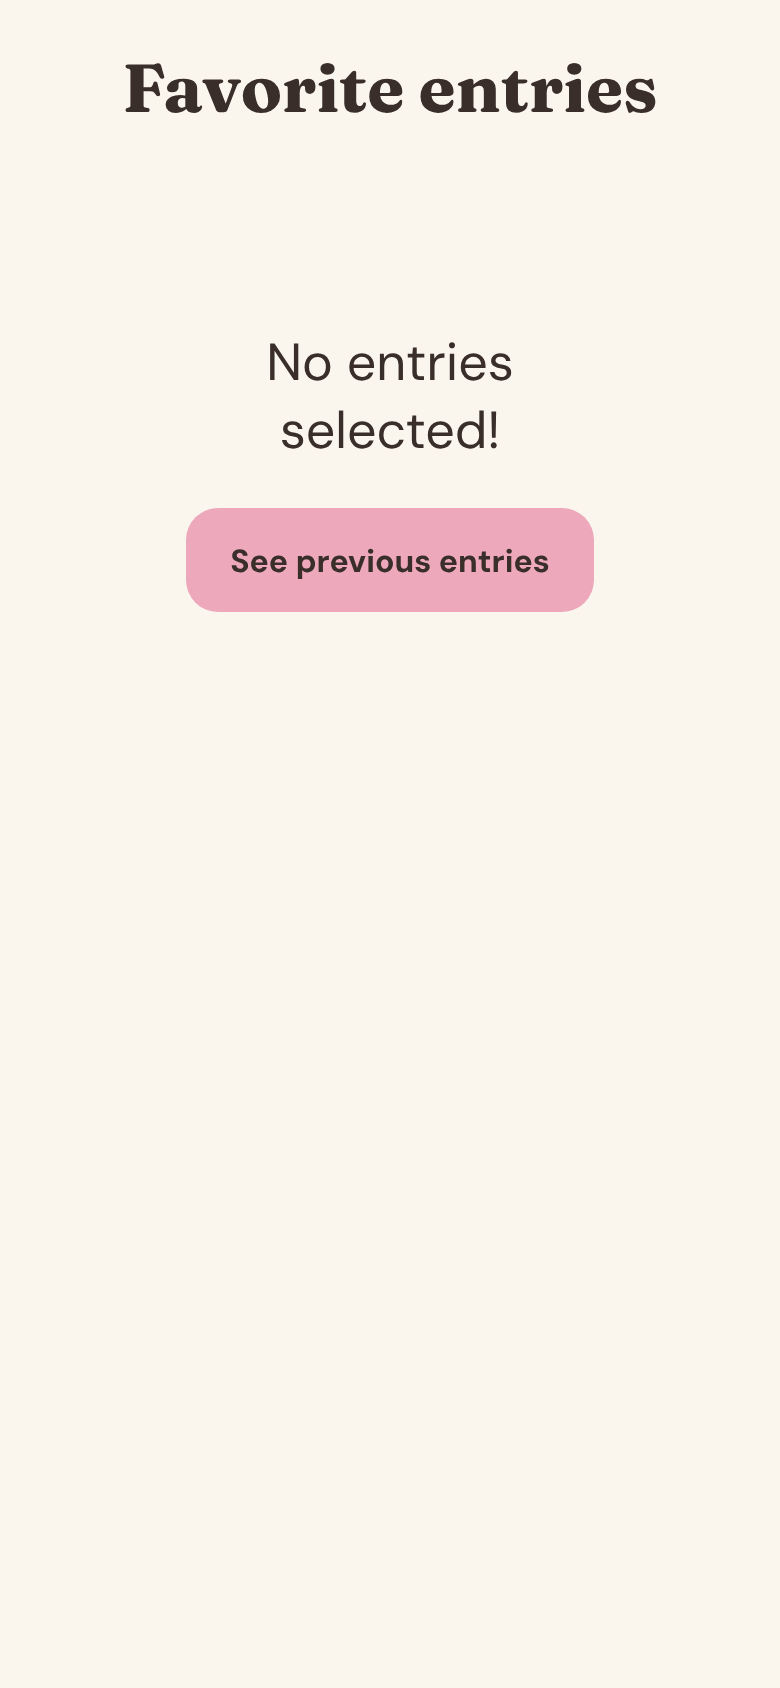
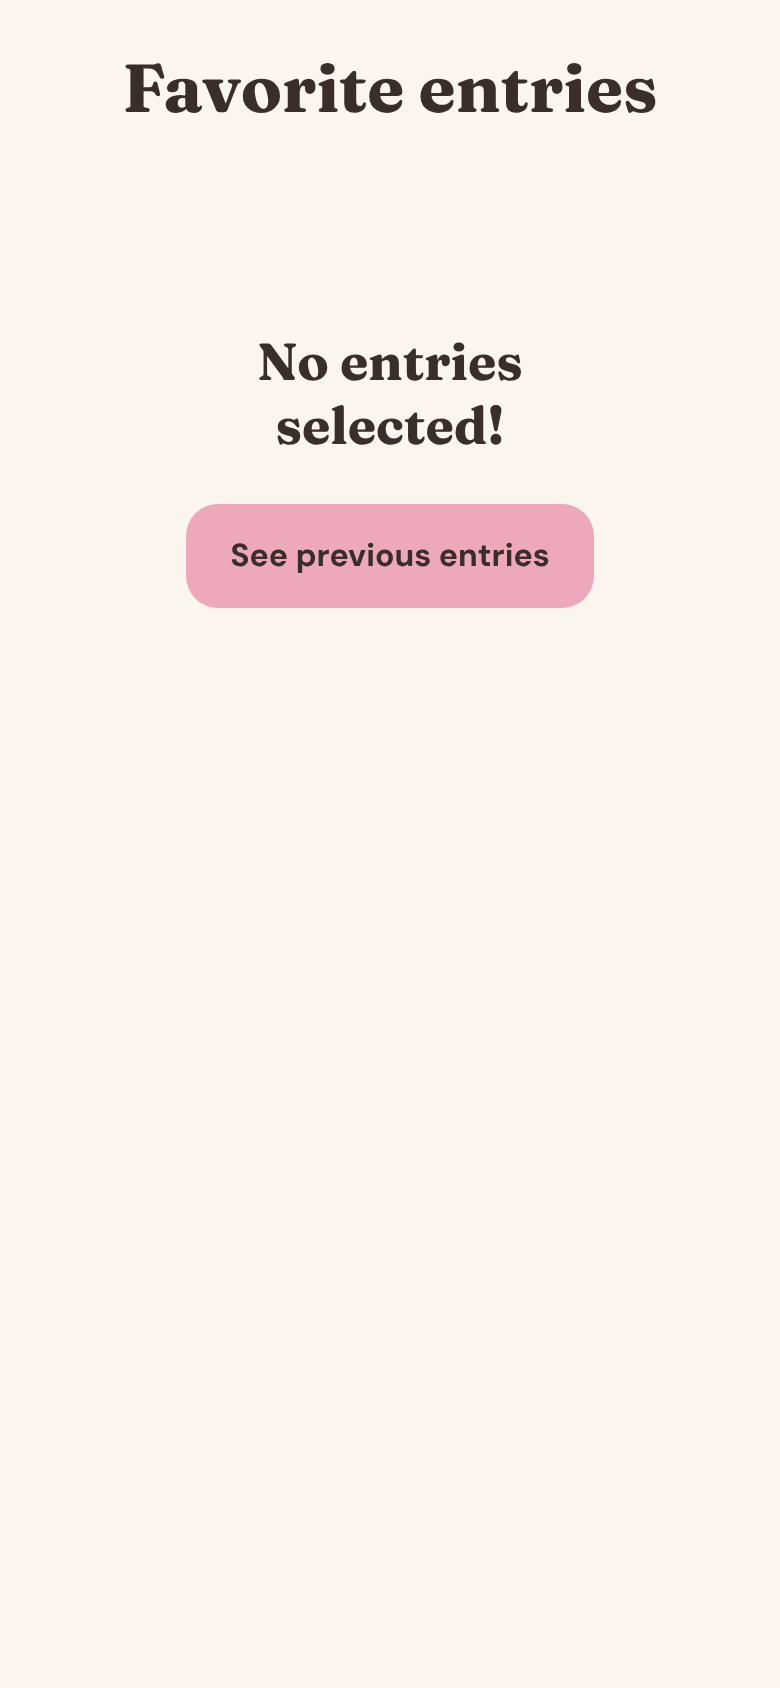
Use the heading font for No entries selected

Changed region(s): [[0.3385, 0.1848, 0.6769, 0.2773], [0.2769, 0.3081, 0.7077, 0.3697]]

diff --git a/app/styles.css b/app/styles.css
@@ -251,4 +251,4 @@ a.tile { text-decoration: none; }
 .clover .unfav { cursor: pointer; }
 .clover .unfav rect, .clover .unfav path { fill: #f3e27a; stroke: #b8a13a; stroke-width: 1.5; }
 .fav-empty { display: flex; flex-direction: column; align-items: center; gap: 22px; margin-top: 60px; }
-.fav-empty-text { margin: 0; font-size: 26px; line-height: 1.3; }
+.fav-empty-text { margin: 0; font-family: var(--font-title); font-weight: 700; font-size: 26px; line-height: 1.25; }

diff --git a/app/sw.js b/app/sw.js
@@ -1,6 +1,6 @@
 // Lets the app open even without internet, after the first visit.
 // When you change any app file, bump the version number so phones get the update.
-const CACHE = 'wpa-v17';
+const CACHE = 'wpa-v18';
 const FILES = ['./', 'index.html', 'styles.css', 'data.js', 'app.js', 'cloud.js', 'manifest.webmanifest',
   'icons/icon-192.png', 'icons/icon-512.png', 'icons/apple-touch-icon.png'];
 
